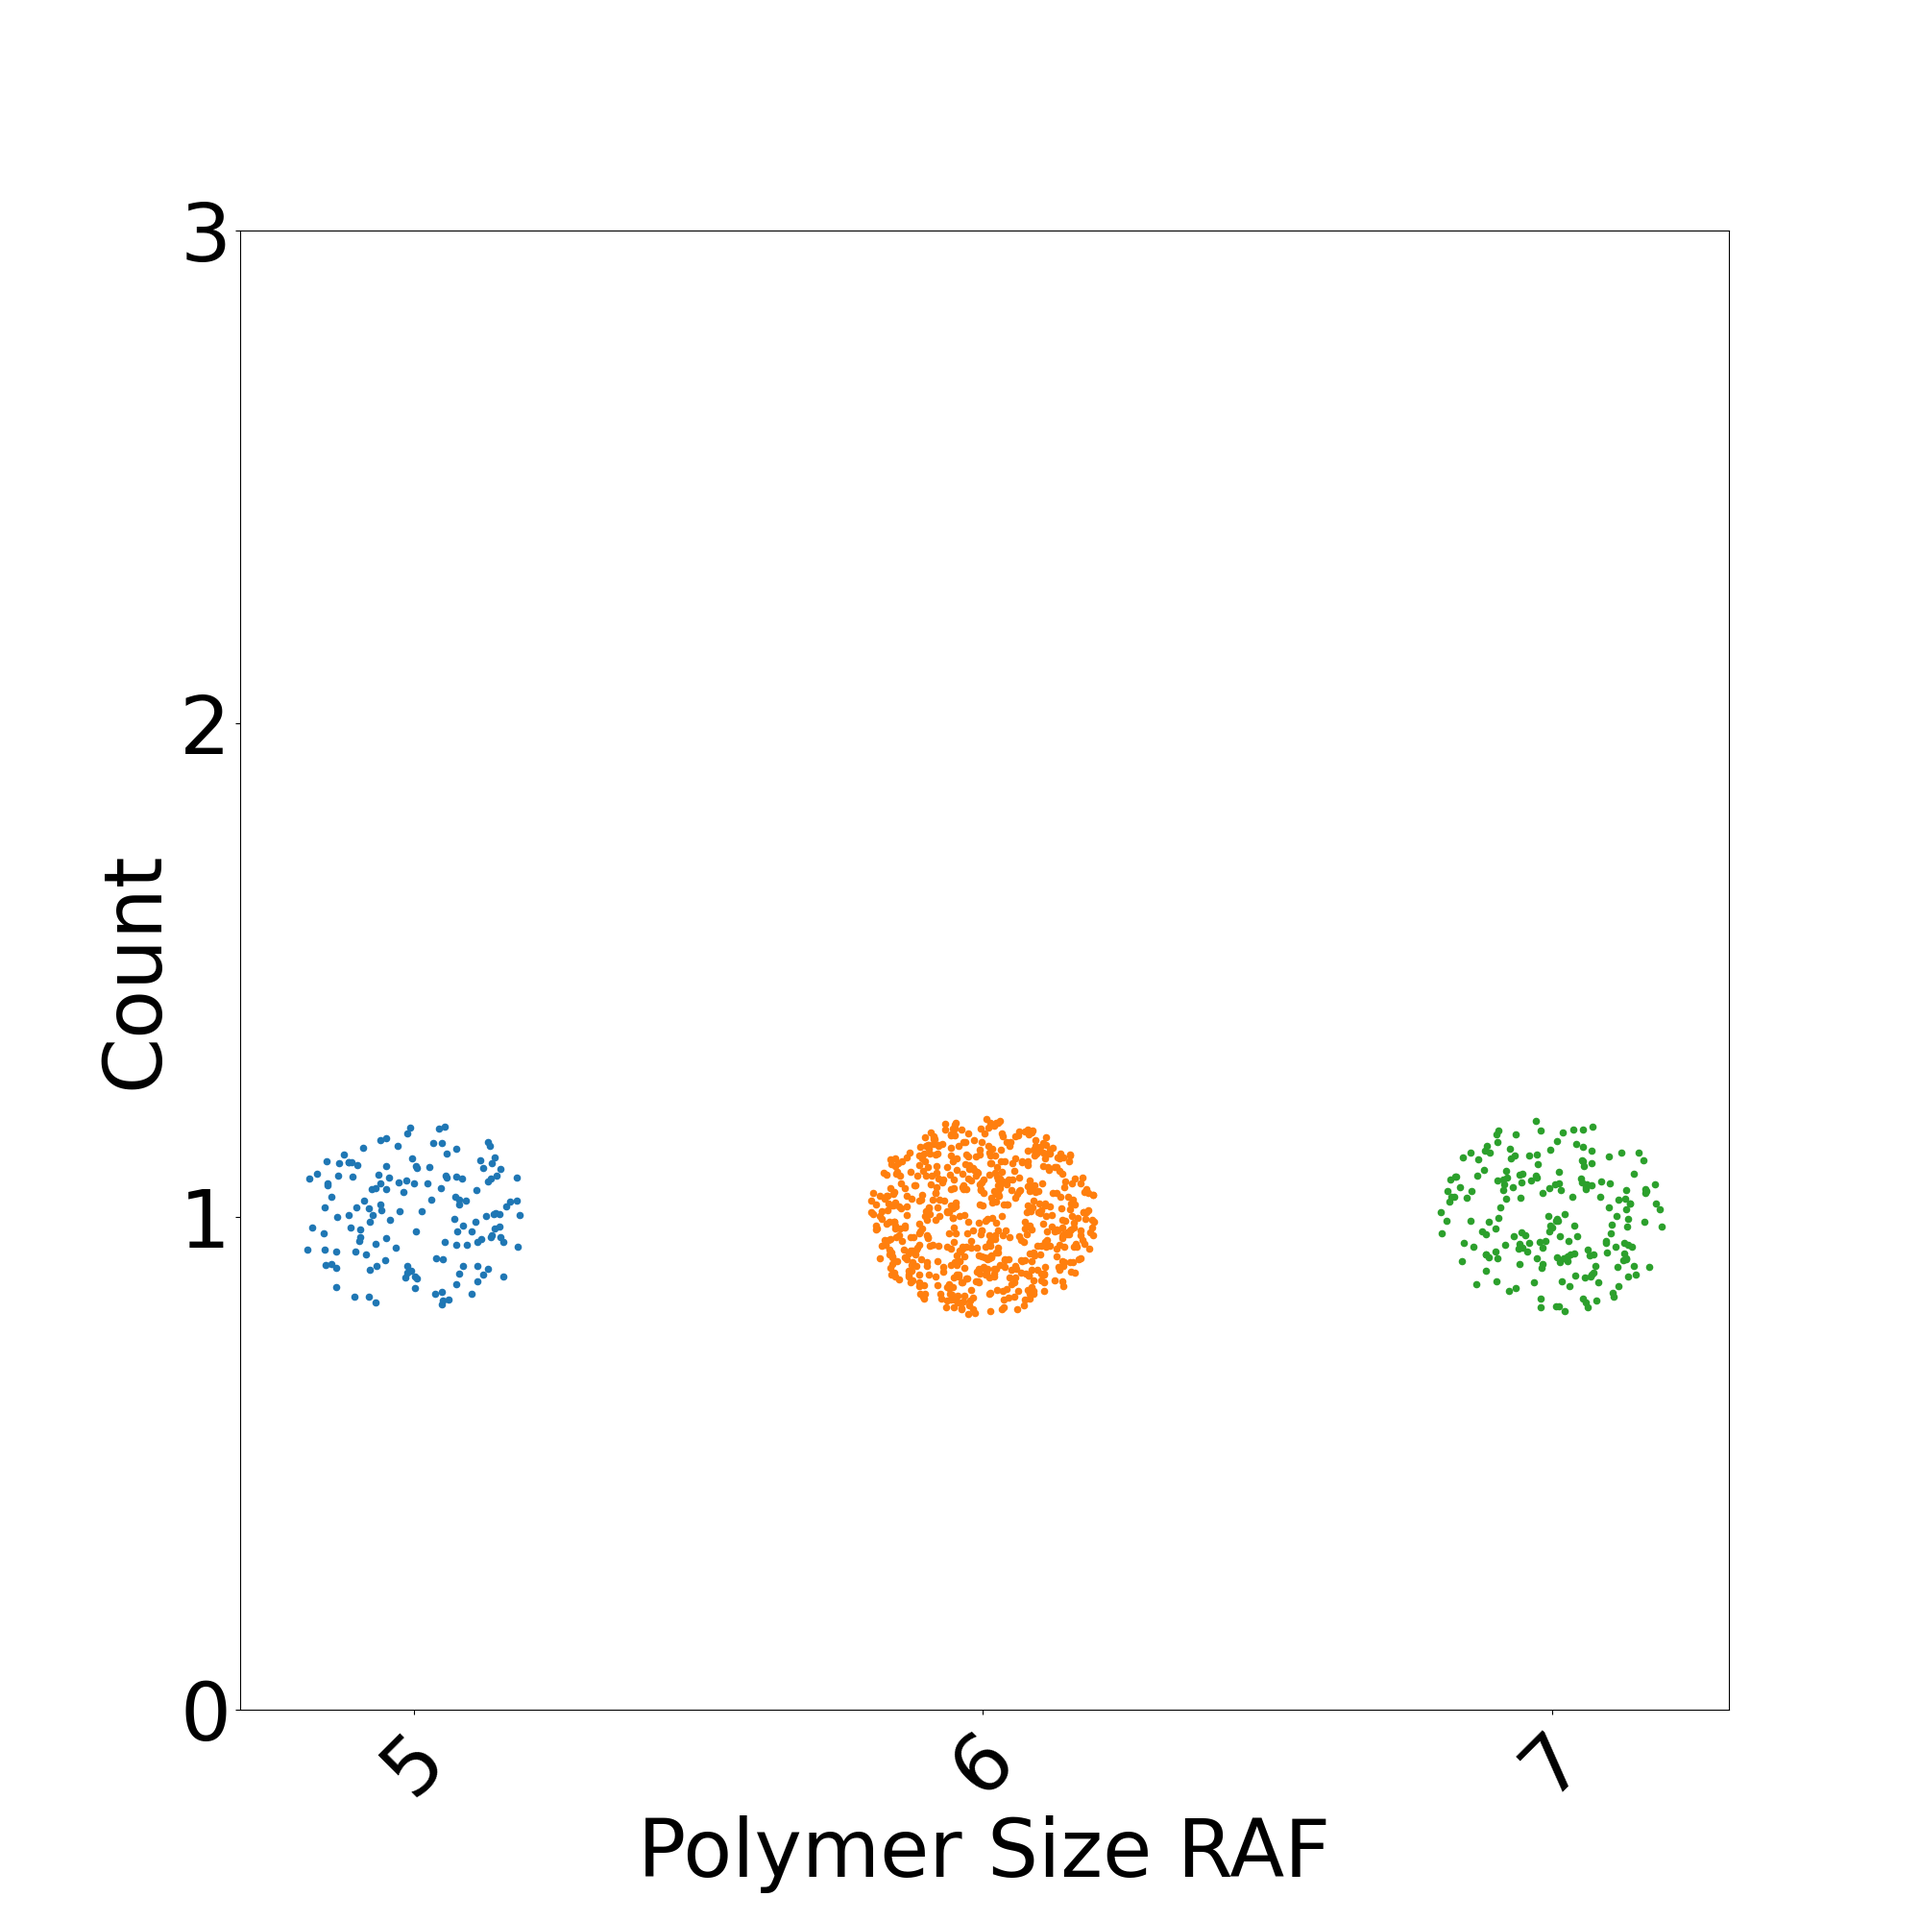
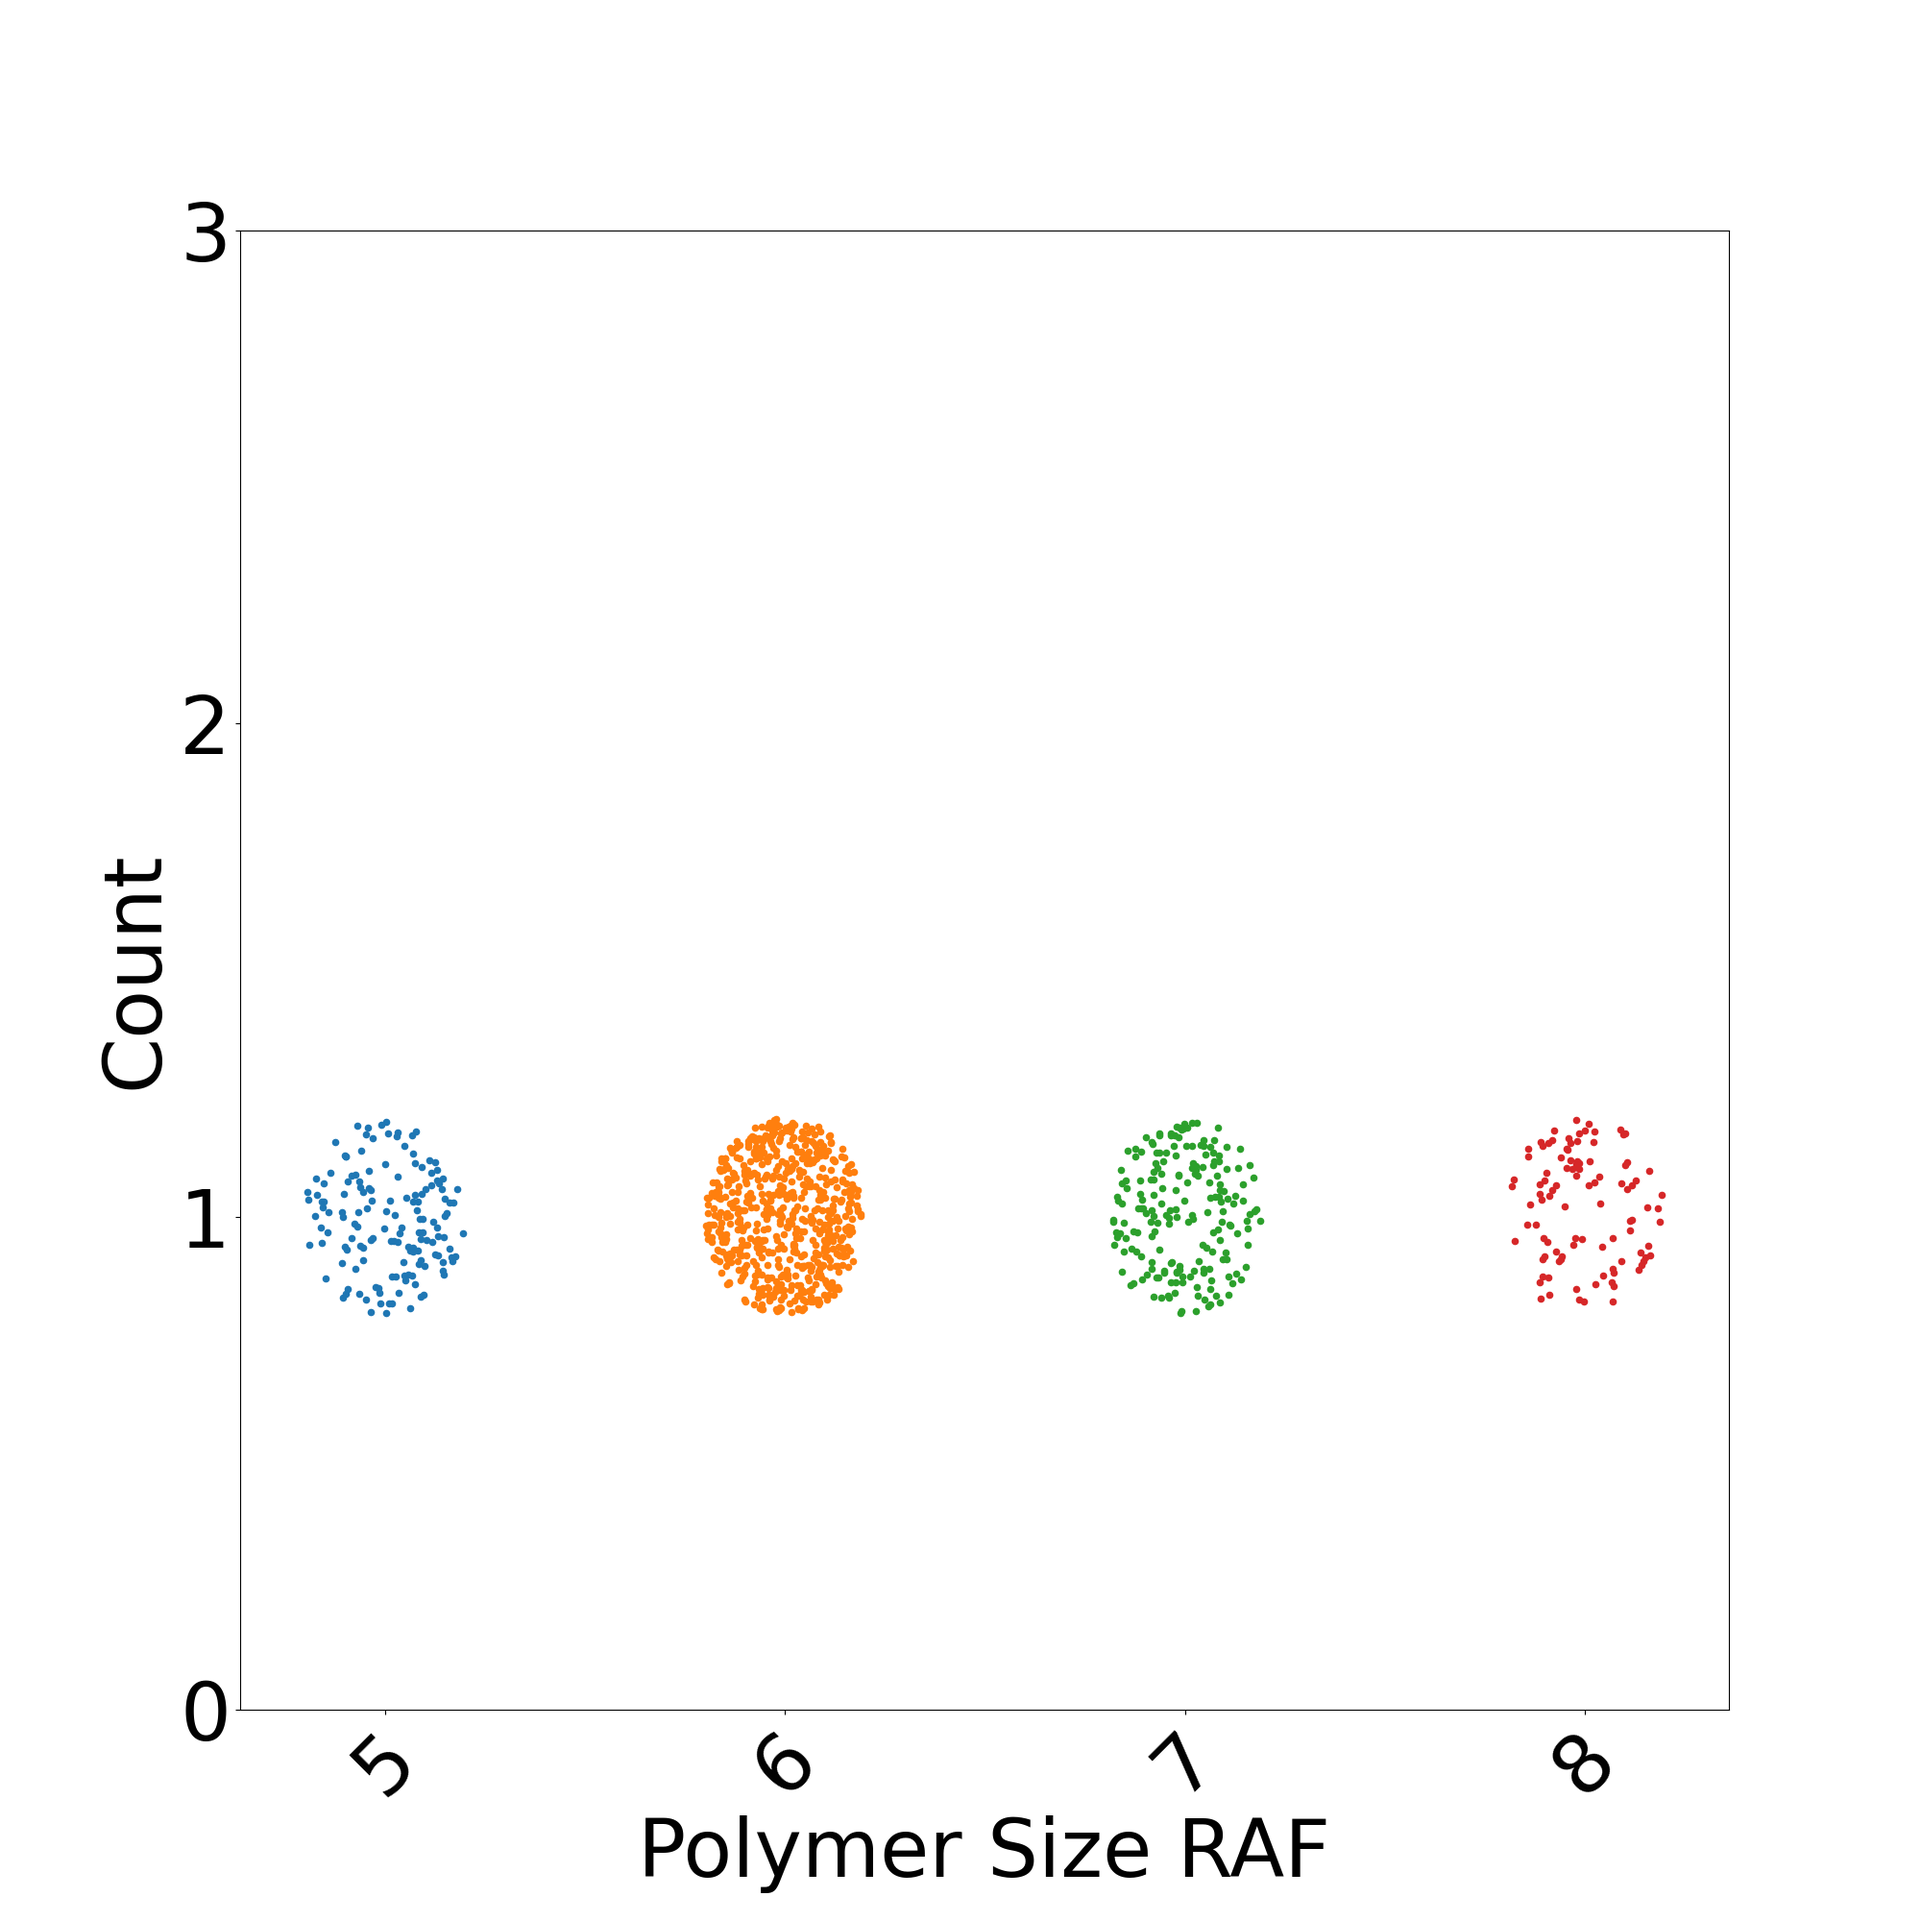
.

diff --git a/RAFCores.tex b/RAFCores.tex
@@ -374,25 +374,23 @@ which we investigate the structural properties of irreducible RAFs.
     \centering
     \begin{minipage}[c]{0.5\textwidth}
       \centering
-      \includegraphics[width=0.8\textwidth]{./Pictures/n6_split_present.pdf}
+      \includegraphics[width=0.8\textwidth]{./Pictures/n6iRAFrevNoFReactions.png}
     \end{minipage}%
     \hfill%
     \begin{minipage}[c]{0.5\textwidth}
       \centering
-      \includegraphics[width=0.8\textwidth]{./Pictures/n6_forw_present.pdf}
+      \includegraphics[width=0.8\textwidth]{./Pictures/n6iRAFirrevNoFReactions.png}
     \end{minipage}
   \end{minipage}	
   \caption{Irreducible RAFs typically contain many autocatalytic
-      cores. \textbf{Top:} number of autocatalytic cores in individual irreducible RAFs.  
-      \textbf{Bottom:} presence/absence of F-reactions from the maximal 
-      RAF in the individual irreducible RAFs. The figure shows 50 arbitrarily chosen
-      irreducible RAFs from two instances of the binary polymer model with a 
-      fixed probability for any non-food species to catalyze any reaction of 
-      $p=0.01$ (\textbf{right}) and $p=0.008$ (\textbf{left}) and maximum 
-      polymer length $6$ with \textbf{left} including both ligation cleavage 
-      reactions, while \textbf{right} only ligation reactions. See Sect.~\ref{sect:term} 
-      for the definition of terminology and SI Sect.~\ref{S-sec:BinPol} for 
-      simulation details.}
+      cores. Number of autocatalytic cores (\textbf{top}) and F-reactions (\textbf{bottom}) 
+      The figure shows 50 arbitrarily chosen irreducible RAFs from two instances of the 
+      binary polymer model with maximum polymer length of $6$. While the \textbf{left} panels 
+      reflect a binary polymer model including both ligation cleavage reactions with a fixed probability 
+      for a non-food species to catalyze any reaction of $p=0.0025$, the \textbf{right} panels
+      reflect a binary polymer model containing ligation reactions only with a fixed probability 
+      for a non-food species to catalyze any reaction of $p=0.006$. See Sect.~\ref{sect:term} 
+      for the definition of terminology and SI Sect.~\ref{S-sec:BinPol} for simulation details.}
   \label{fig:irrRAFCores}
 \end{figure}
 
